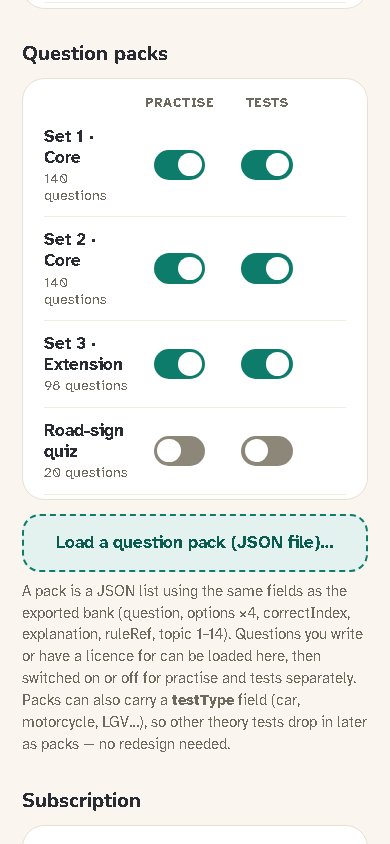
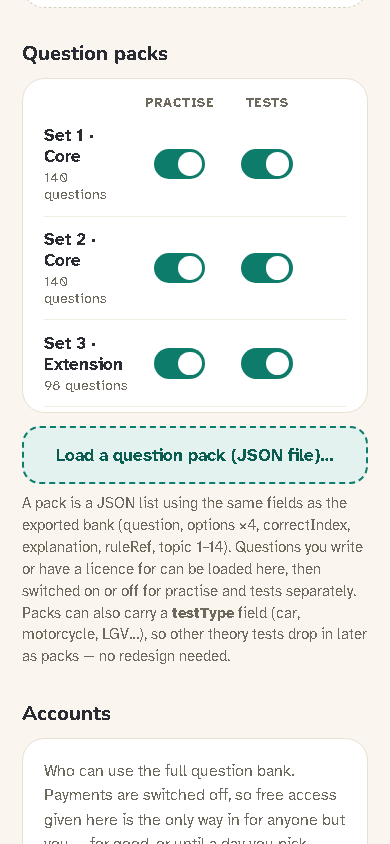
docs(#44): credit line on About and Help, Help's Road signs section and screenshots, change fragment

diff --git a/help.html b/help.html
@@ -475,15 +475,16 @@
         <h2 id="h-signs"><span class="num"></span>Road signs</h2>
         <div class="step">
           <div>
-            <p><strong>Road Signs</strong> shows 20 common signs and road markings.</p>
+            <p><strong>Road Signs</strong> shows every sign, road marking and light the app has a picture for, each with its official meaning underneath. The pictures are the real ones: road signs from the Department for Transport, road markings and traffic lights from The Highway Code.</p>
             <ul>
-              <li>Tap any sign to hear what it means.</li>
-              <li><strong>Quiz me on the signs</strong> starts a practice session on the signs.</li>
+              <li>Tap any sign to hear its name and meaning.</li>
+              <li><strong>Quiz me on the signs</strong> starts a practice session of up to 20 questions from the question bank that have a sign picture, in a random order.</li>
             </ul>
-            <p>Signs also appear in the questions themselves wherever a question is about one.</p>
+            <p>Signs also appear in the questions themselves wherever a question is about one. A question that asks what colour or shape a sign is has no picture, because the picture would give the answer away.</p>
+            <p class="note">Road sign images: Crown copyright, Department for Transport. Contains public sector information licensed under the Open Government Licence v3.0. Road marking and light signal images: Crown copyright, The Highway Code. Contains public sector information licensed under the Open Government Licence v3.0. <a href="https://www.nationalarchives.gov.uk/doc/open-government-licence/version/3/">Read the licence</a>.</p>
           </div>
           <figure class="shot">
-            <a href="help/img/road-signs.png"><img src="help/img/road-signs.png" width="390" height="844" alt="The Road Signs screen with a Quiz me on the signs button and a grid of signs: Stop, Give way, 30 and 20 speed limits, national speed limit and minimum speed 30." loading="lazy"></a>
+            <a href="help/img/road-signs.png"><img src="help/img/road-signs.png" width="390" height="844" alt="The Road Signs screen: a Quiz me on the signs button, then official sign pictures in two columns, each with its name and official meaning: Stop, Give way, No entry and No overtaking, with the 20 and 30 limits below." loading="lazy"></a>
             <figcaption>Road Signs</figcaption>
           </figure>
         </div>
@@ -824,7 +825,7 @@
             <p class="note"><strong>Worth knowing:</strong> edits are saved in this account's own copy, not in the shared question bank on the server, so other accounts don't see them.</p>
           </div>
           <figure class="shot">
-            <a href="help/img/admin-packs.png"><img src="help/img/admin-packs.png" width="390" height="844" alt="Question packs: Set 1 Core, Set 2 Core and Set 3 Extension switched on for practise and tests, the Road-sign quiz switched off, and Load a question pack." loading="lazy"></a>
+            <a href="help/img/admin-packs.png"><img src="help/img/admin-packs.png" width="390" height="844" alt="Question packs: Set 1 Core, Set 2 Core and Set 3 Extension switched on for practise and tests, and Load a question pack." loading="lazy"></a>
             <figcaption>Question packs</figcaption>
           </figure>
           <figure class="shot">

diff --git a/about.html b/about.html
@@ -296,6 +296,7 @@
         <p><b>Not affiliated with the DVSA.</b> Theory Trainer is an independent app. It is not made, endorsed or checked by the Driver and Vehicle Standards Agency (DVSA).</p>
         <p>The questions are our own, written in the same format as the real test, each with an explanation and a Highway Code reference. They are not the DVSA's official revision question bank, which is licensed and not published.</p>
         <p>Practice helps, but no app can promise a pass.</p>
+        <p><b>Sign pictures.</b> Road sign images: Crown copyright, Department for Transport. Contains public sector information licensed under the Open Government Licence v3.0. Road marking and light signal images: Crown copyright, The Highway Code. Contains public sector information licensed under the Open Government Licence v3.0. <a href="https://www.nationalarchives.gov.uk/doc/open-government-licence/version/3/">Read the licence</a>.</p>
       </div>
     </div>
   </section>

diff --git a/changes/section-official-signs.md b/changes/section-official-signs.md
@@ -1,0 +1,21 @@
+## Changelog
+- **Road signs are the real ones now (#44).** Every sign picture is official Great Britain artwork from GOV.UK, copied unchanged and only scaled down: road signs from the Department for Transport's traffic sign images (by diagram number), road markings and traffic/motorway lights from The Highway Code. The 20 hand-drawn signs are gone (some, like "Start of motorway", did not look like the real sign).
+- **37 pictures instead of 20**, all in one map in `signs.js` (`TTSigns.list`: key, file, DfT diagram or Highway Code page, official meaning, source link, alt text). The question pictures, the Road Signs screen, the question editor's "Sign image" list and the signs quiz all read that map.
+- **15 more questions show their sign** (the ford sign, 50 limit, clearway, cycles only, turn left, speed camera, brown tourist sign, the motorway 50-advised and variable-limit signals, level-crossing lights, double yellow lines, centre line, road works, level crossing, zebra crossing), and the three traffic-light questions show the light they ask about (amber; green; red and amber) instead of one drawing with all three lit.
+- **Pictures that gave the answer away are gone**: "Which shape is the stop sign?" and "Signs on motorways have which background colour?" no longer show the sign. Questions that ask a sign's colour or shape, where coloured studs go, or whose only official picture carries the answer's own words (SCHOOL KEEP CLEAR, the times plate on a single yellow line) have no picture on purpose.
+- **Road Signs screen**: a tile per picture with its name and its official meaning (the DfT spreadsheet's description, or the Highway Code's caption), two columns on a phone; tapping reads both out. The Crown copyright / Open Government Licence credit and a link to the licence sit at the bottom.
+- **"Quiz me on the signs" asks real bank questions**: up to 20 questions from the bank that have a picture, shuffled. The 20 "What does this sign mean?" questions made up in code, and the "Road-sign quiz" question set in Question packs, are gone (they broke the only-questions-from-the-bank rule). Old answers to those made-up questions no longer show in My answers or the coach.
+- The pictures work offline: they are in the service worker's best-effort list (EXTRAS), so they are cached once the next VERSION installs.
+- About and Help carry the same credit line; Help's Road signs section describes the new screen.
+
+## Requirements
+- REQUIREMENTS.md line "⛔ **Road signs are thin**" → 🟡: 37 official pictures (DfT signs + Highway Code markings and lights), 39 bank questions show one; the real test still covers more signs than the bank asks about.
+- REQUIREMENTS.md line "⛔ **No diagrams** for junction-layout or road-marking questions" → 🟡: road-marking questions now show the Highway Code's marking pictures (centre line, double white lines, double yellow lines, box junction); junction layouts still have none.
+- Add: "✅ Sign pictures are official GOV.UK artwork (DfT traffic sign images, The Highway Code), credited on Road Signs, About and Help under the Open Government Licence v3.0; a question never shows a picture that gives its answer away (#44)".
+- ROADMAP.md item 28 "More road signs": done in part (#44) — cut it to what is left (more sign questions in the bank).
+
+## Status
+- Road signs: `signs.js` holds the one map (`TTSigns.list`); pictures in `signs/` (37 JPGs, 727 KB, at most 400 px). To add one: put the file in `signs/`, add an entry to the map, add `./signs/<file>` to `sw.js` EXTRAS; `tests/signs.test.js` fails until all three agree.
+- Live bank: `supabase/data/2026-09-25-sign-images.sql` sets `questions.sign` for the 20 changed questions. **Not applied yet** — the lead runs it once on the live project (until then the live app shows the old sign values: the 15 new pictures are missing and t11q03/t11q12 still show theirs; trafficLights shows the DfT "traffic signals ahead" sign).
+- Signs quiz: Road Signs → Quiz me on the signs (bank questions with a picture, at most 20).
+- Test: `node --test` (tests/signs.test.js).
